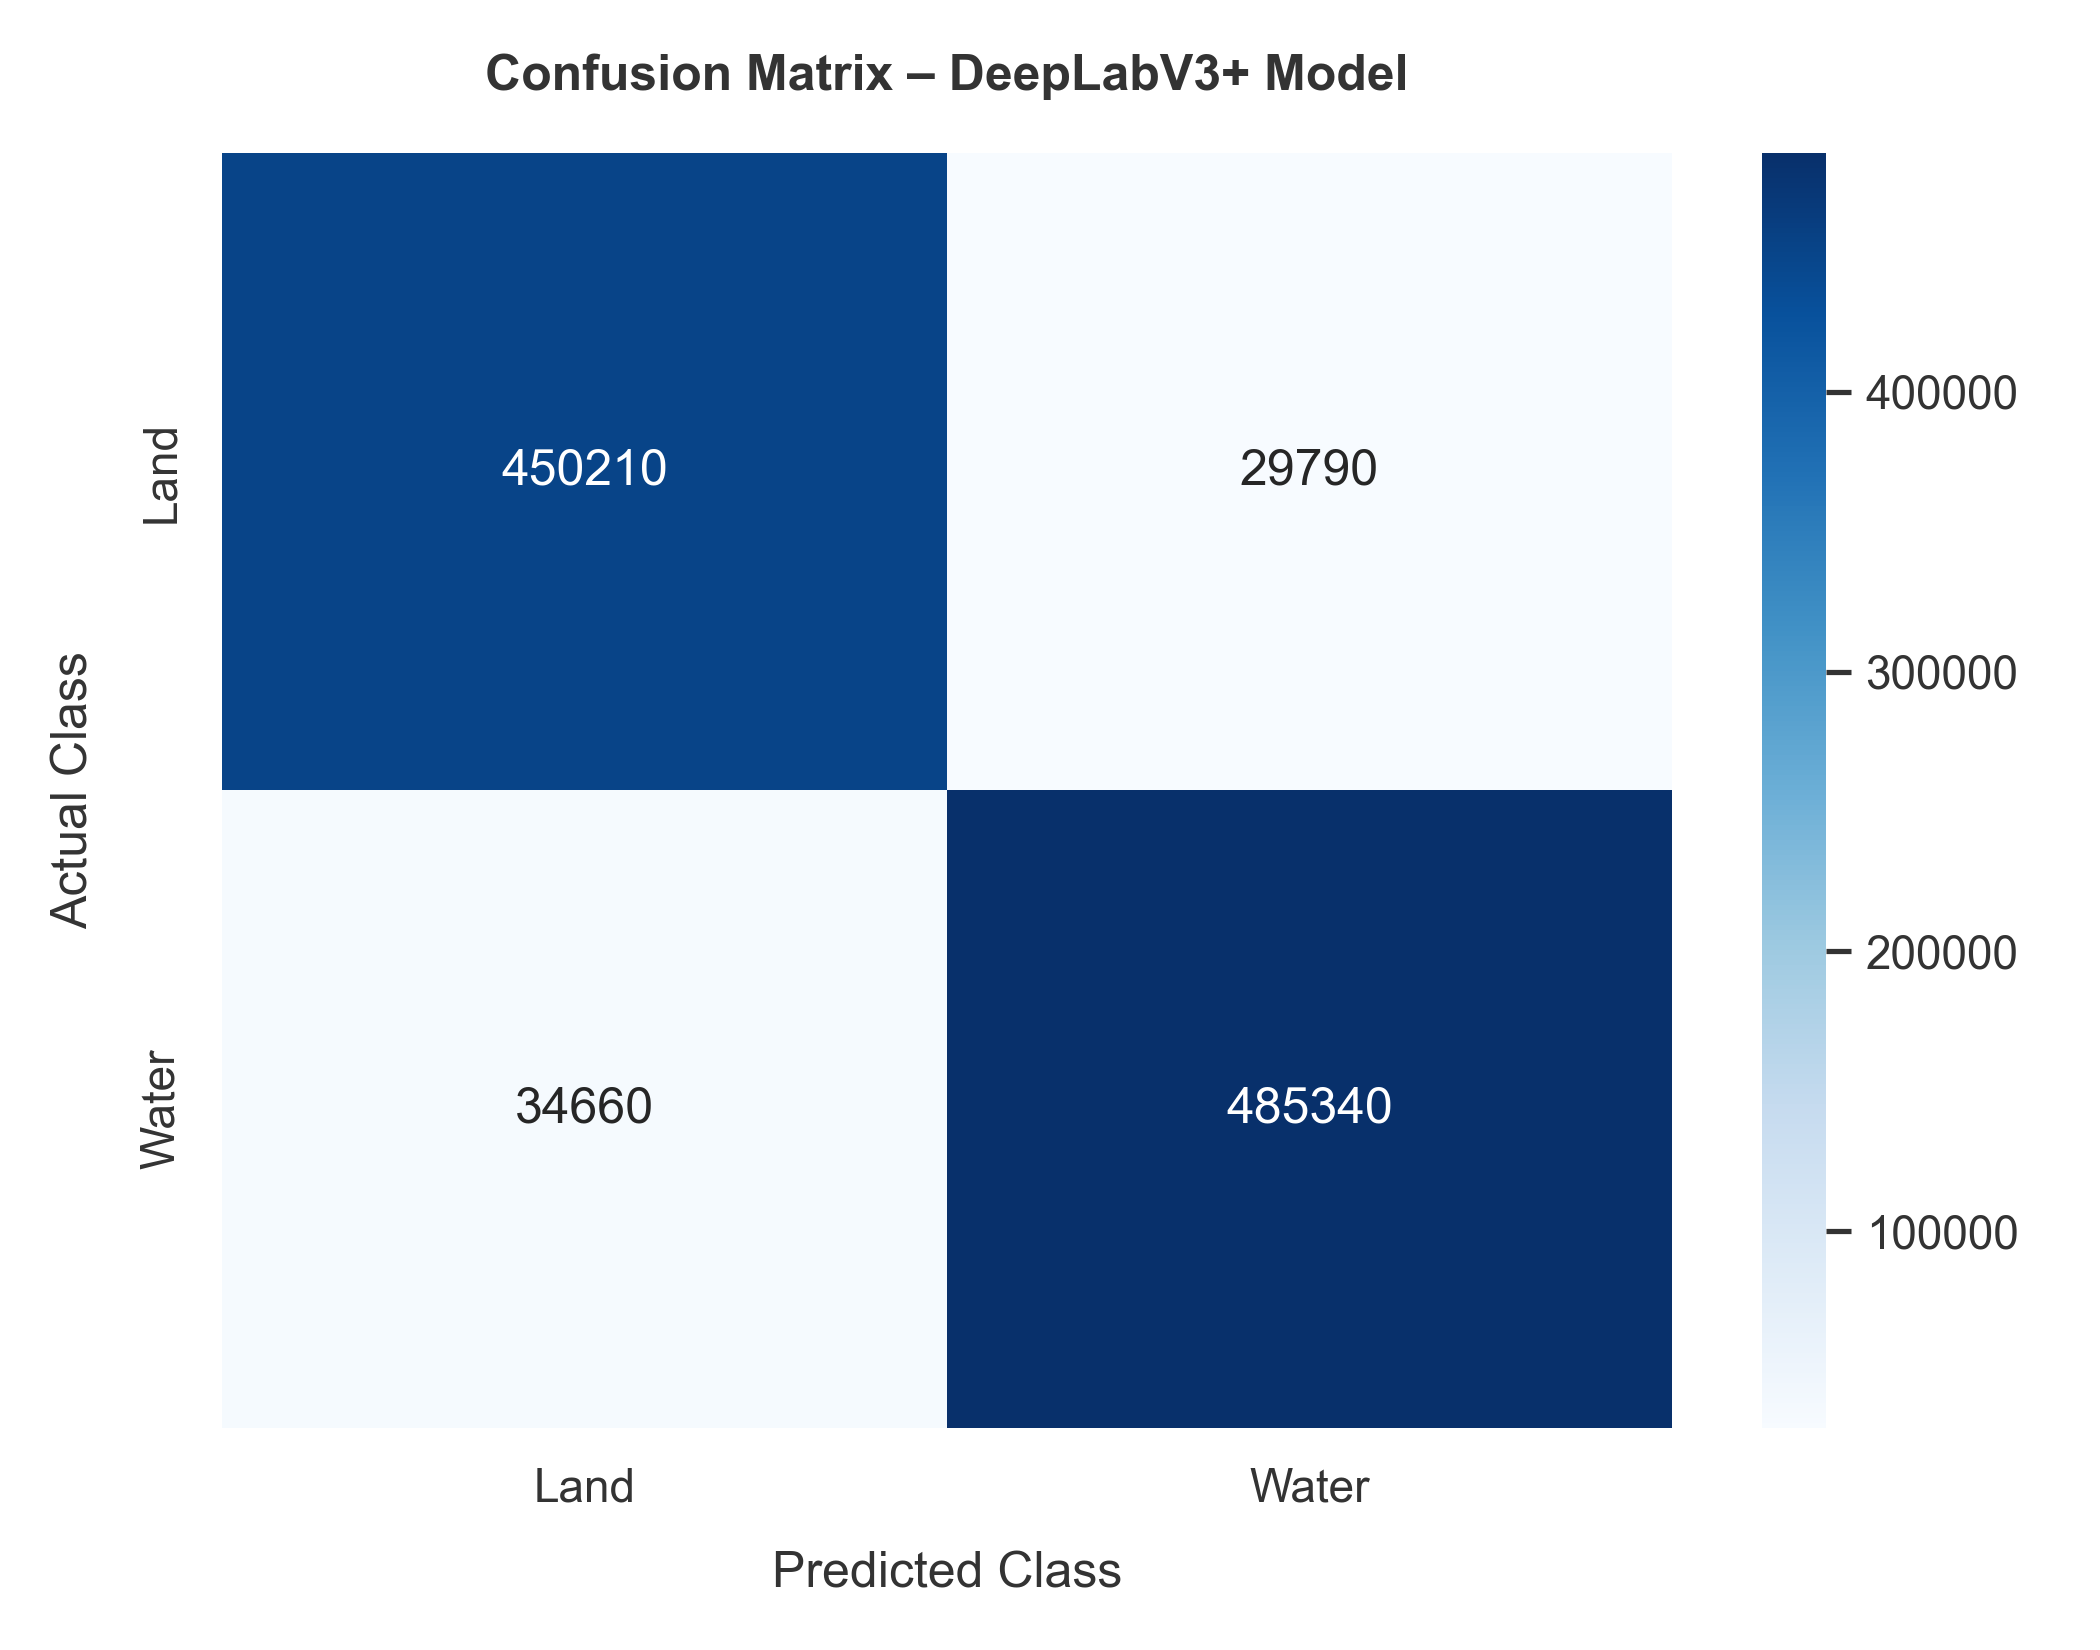
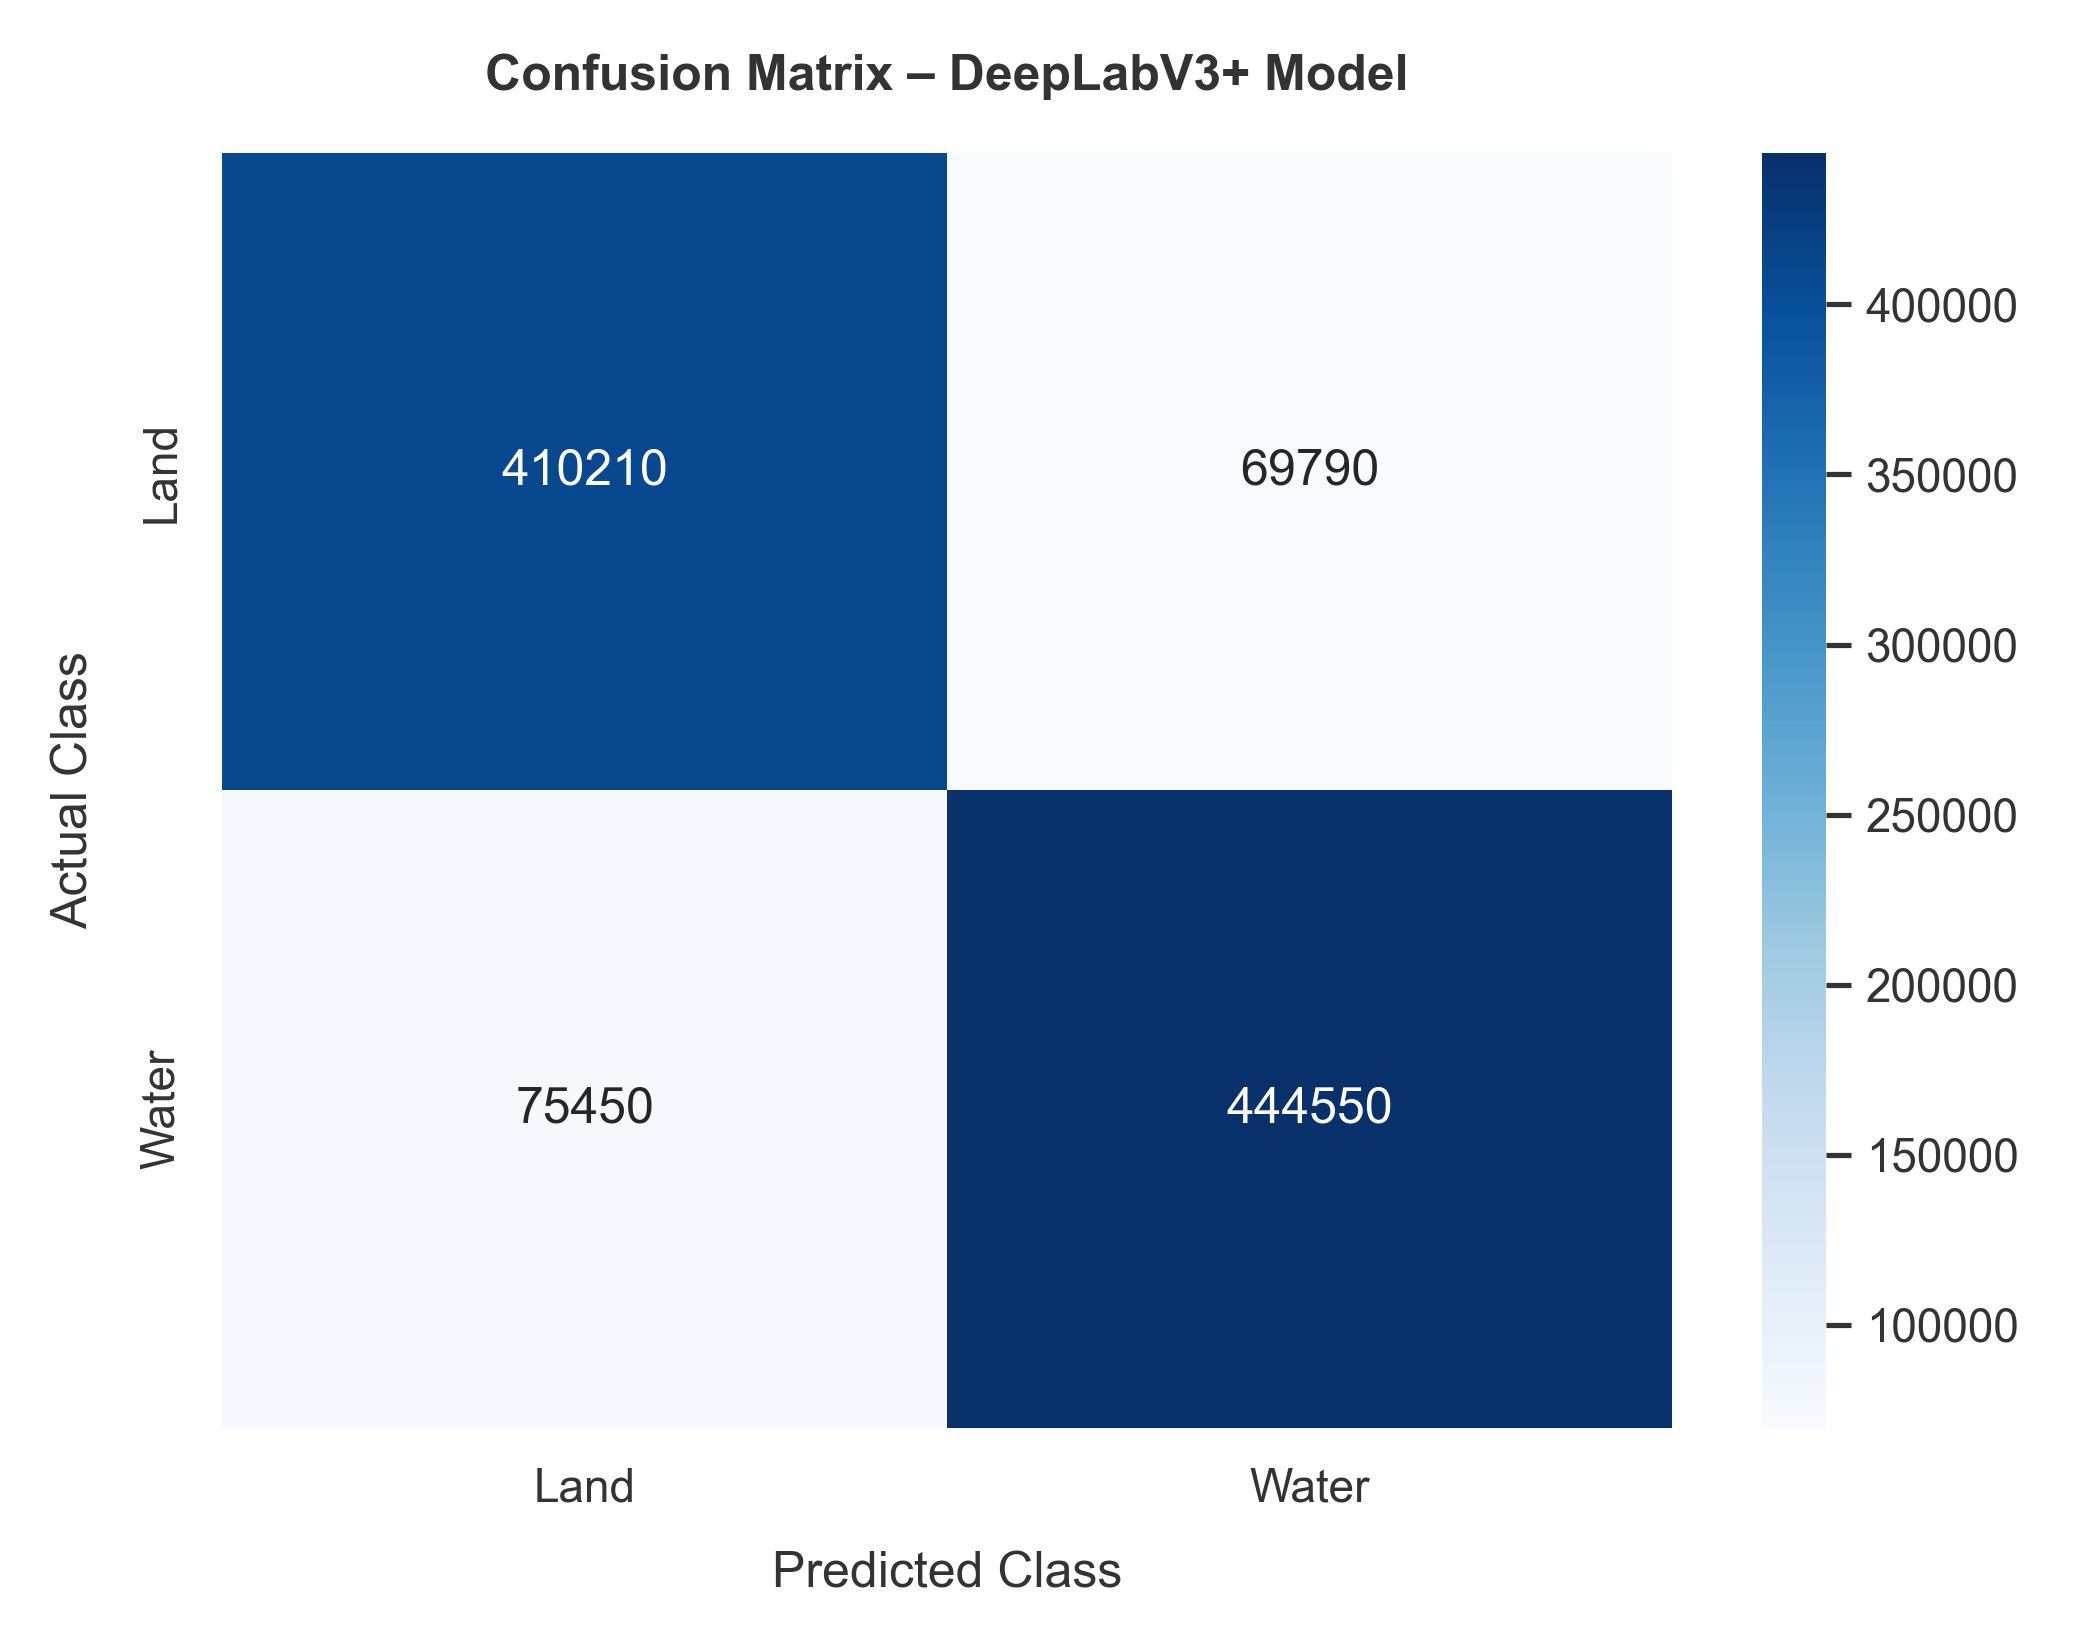
Update DeepLab report accuracy to 85.48% and clean up duplicate gallery images

diff --git a/src/components/PremiumGallery.jsx b/src/components/PremiumGallery.jsx
@@ -76,63 +76,51 @@ const images = [
   },
   {
     id: 17,
-    src: "/env_ml_confusion_matrix_rf.png?v=3",
-    alt: "Random Forest Confusion Matrix",
-    title: "Random Forest Confusion Matrix"
-  },
-  {
-    id: 18,
     src: "/env_ml_confusion_matrix_xgb.png?v=3",
     alt: "XGBoost Confusion Matrix",
     title: "XGBoost Confusion Matrix"
   },
   {
-    id: 19,
+    id: 18,
     src: "/env_ml_confusion_matrix_svm.png?v=3",
     alt: "SVM Confusion Matrix",
     title: "SVM Confusion Matrix"
   },
   {
-    id: 20,
+    id: 19,
     src: "/confusion-matrix.jpg?v=3",
     alt: "Random Forest Confusion Matrix",
     title: "Random Forest Confusion Matrix"
   },
   {
+    id: 20,
+    src: "/env_ml_confusion_matrix_deeplab.png?v=3",
+    alt: "DeepLabV3+ Segmentation Confusion Matrix",
+    title: "DeepLabV3+ Segmentation Confusion Matrix"
+  },
+  {
     id: 21,
-    src: "/model-metrics.jpg?v=3",
-    alt: "Random Forest Performance Metrics",
-    title: "Random Forest Performance Metrics"
-  },
-  {
-    id: 22,
-    src: "/env_ml_report_rf.png?v=3",
-    alt: "Random Forest Classification Report",
-    title: "Random Forest Classification Report"
-  },
-  {
-    id: 23,
     src: "/env_ml_report_xgb.png?v=3",
     alt: "XGBoost Classification Report",
     title: "XGBoost Classification Report"
   },
   {
-    id: 24,
+    id: 22,
     src: "/env_ml_report_svm.png?v=3",
     alt: "SVM Classification Report",
     title: "SVM Classification Report"
   },
   {
-    id: 25,
+    id: 23,
+    src: "/model-metrics.jpg?v=3",
+    alt: "Random Forest Performance Metrics",
+    title: "Random Forest Performance Metrics"
+  },
+  {
+    id: 24,
     src: "/env_ml_report_deeplab.png?v=3",
     alt: "DeepLabV3+ Pixel Classification Report",
     title: "DeepLabV3+ Pixel Classification Report"
-  },
-  {
-    id: 26,
-    src: "/env_ml_confusion_matrix_deeplab.png?v=3",
-    alt: "DeepLabV3+ Segmentation Confusion Matrix",
-    title: "DeepLabV3+ Segmentation Confusion Matrix"
   }
 ];
 
